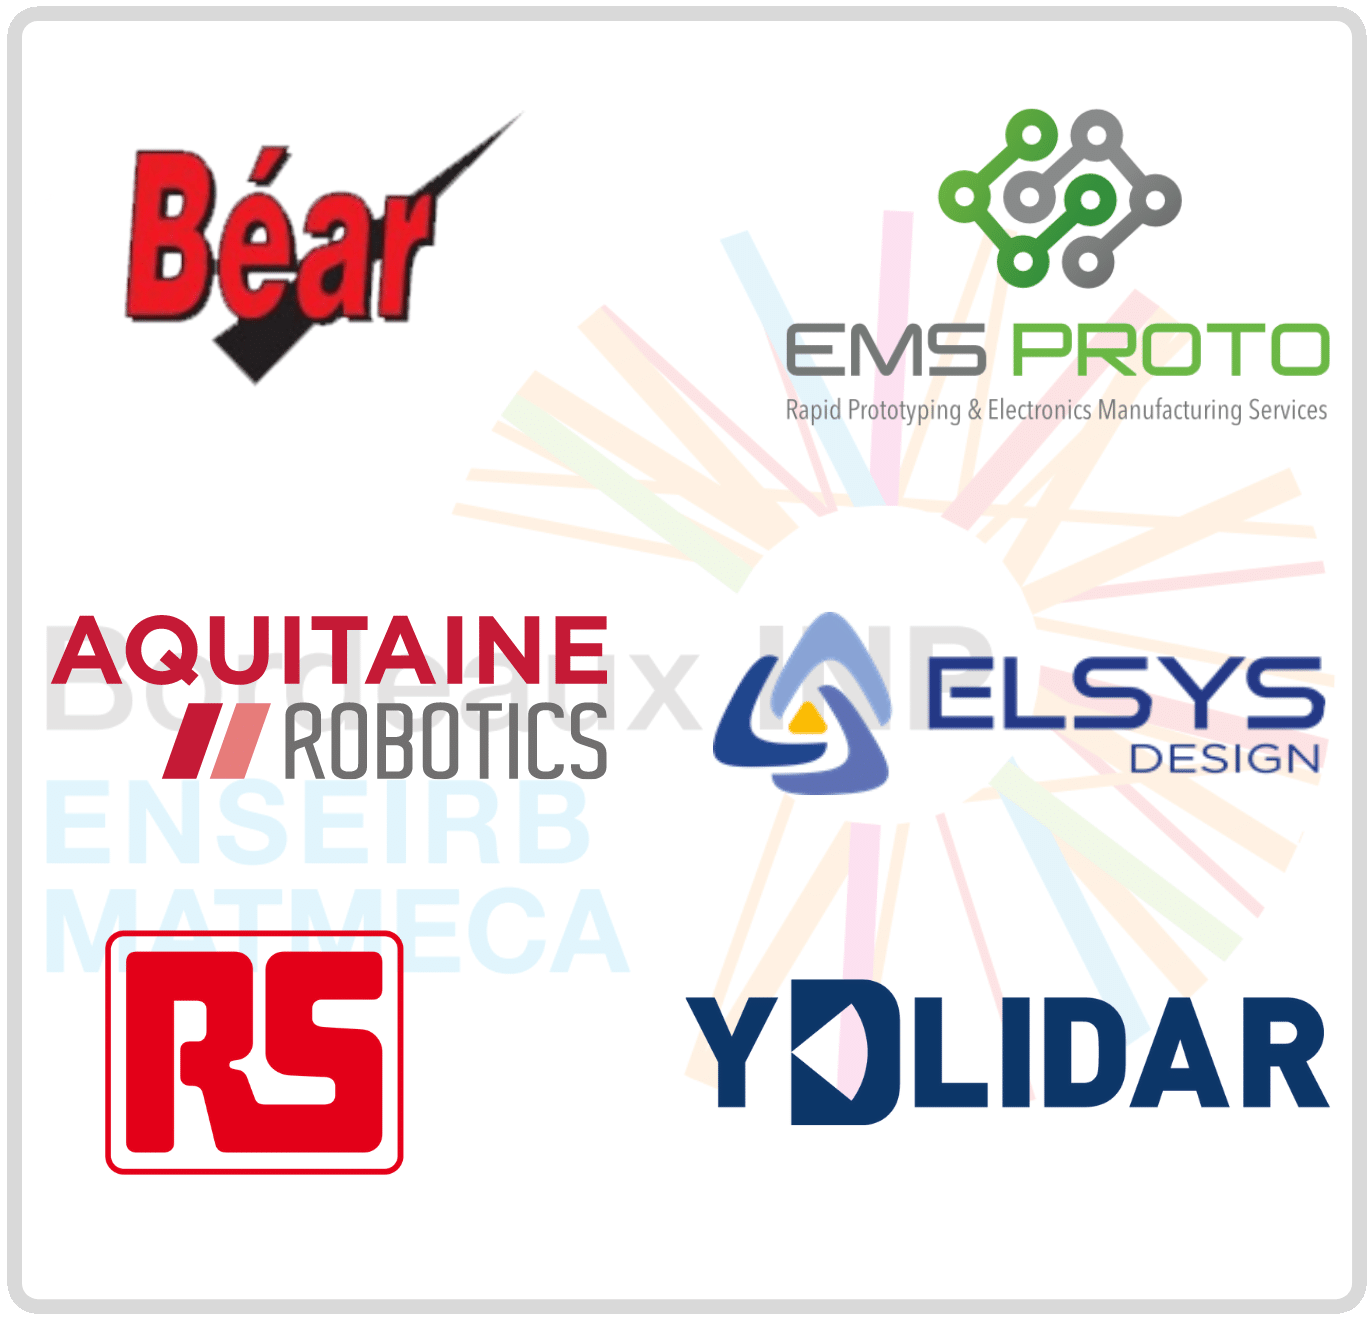
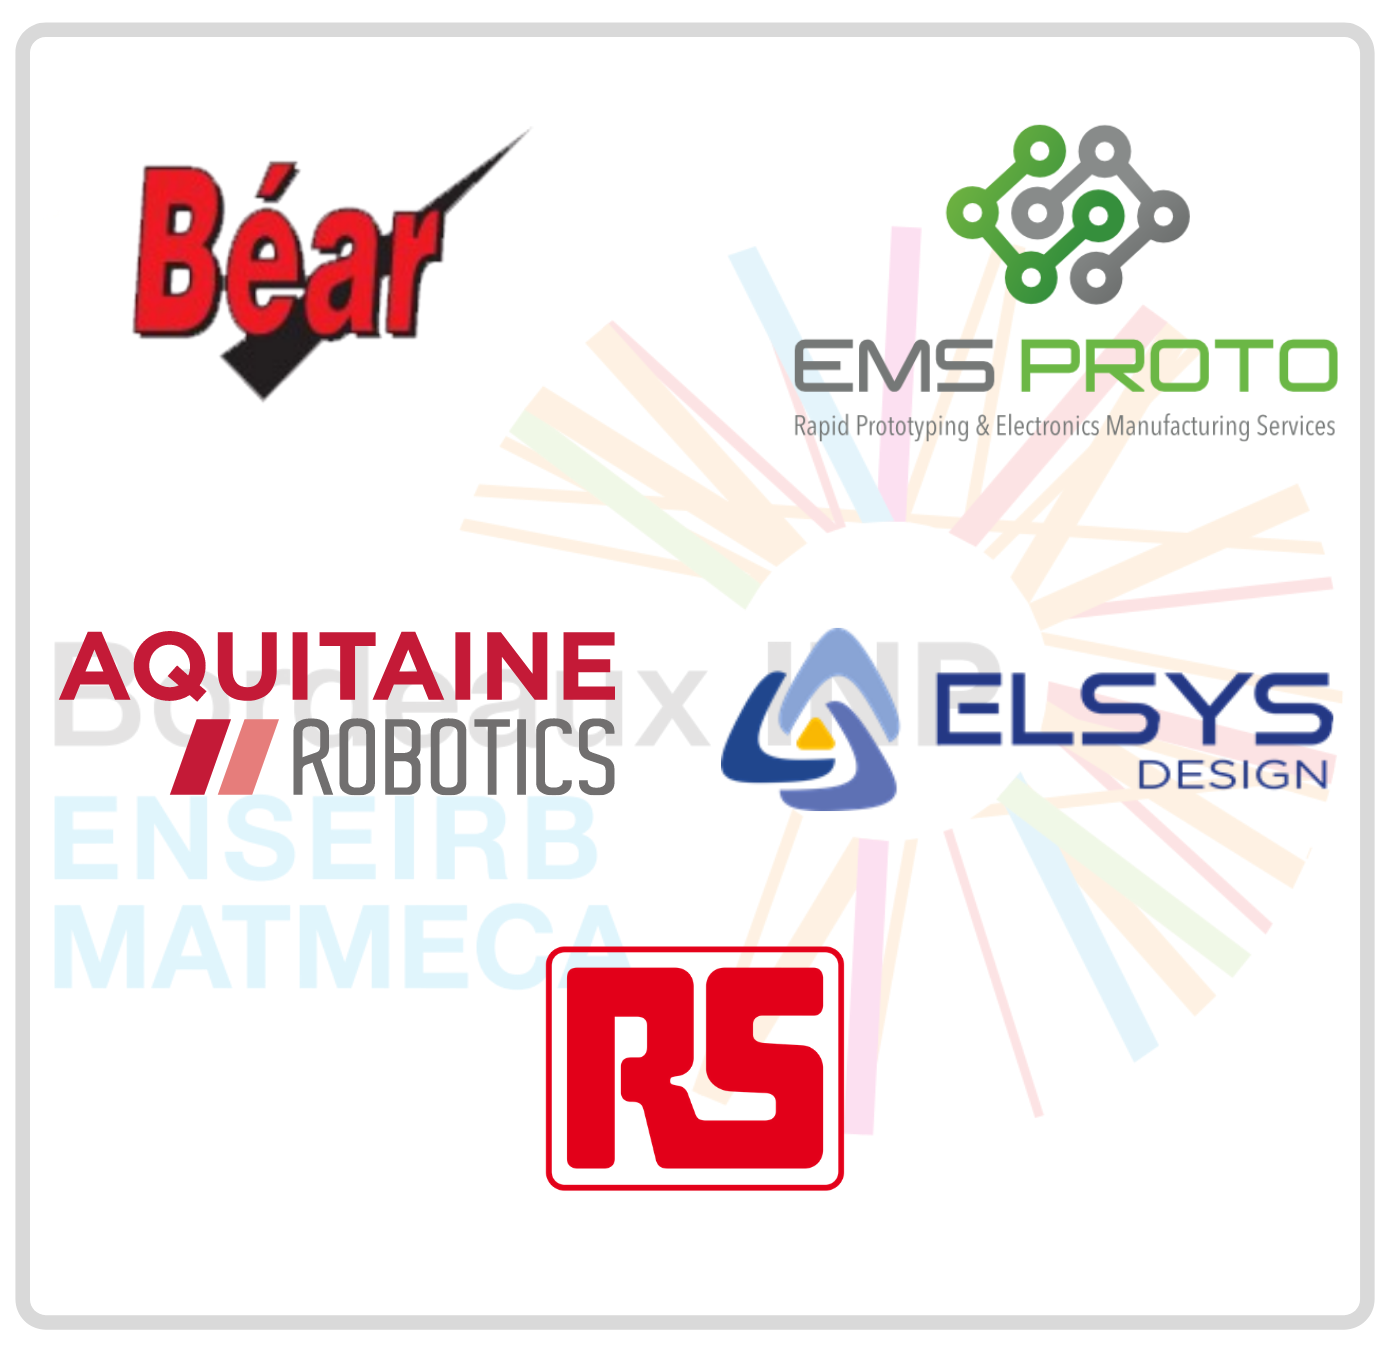
Update from https://github.com/eirbot/SiteEirbot/commit/9f276fe4433ca75caa8911c973769a5f2bbb16e9

Changed region(s): [[0.0, 0.0, 1.0, 1.0], [0.092, 0.0926, 0.3679, 0.3087], [0.5212, 0.4014, 0.5518, 0.4322]]

diff --git a/about/index.html b/about/index.html
@@ -268,14 +268,6 @@ La Coupe de France de robotique !</p>
             
             <div>
               <div class="user">
-                <img src="/images/ydlidar_crop.webp" alt="client">
-              </div>
-              <p>"Shenzhen EAI Technology Co., Ltd(EAI) , established in 2015, is  a leading lidar sensor manufacture and intelligent mobile system solution provider. Our customers and partners covers home and abroad. Through continuous innovation, EAI is committed to providing lidar sensor with best performance and user experience as well as intelligent mobile solutions for autonomous mapping, real time localization,planning and navigation, obstacle avoidance.<br>
-<a href="https://www.ydlidar.com/">Le site de YDlidar</a>"</p>
-            </div>
-            
-            <div>
-              <div class="user">
                 <img src="/images/bear_crop.webp" alt="client">
               </div>
               <p>"Bear est une entreprise produisant du FR4 pour la conception de cartes électroniques"</p>
@@ -329,7 +321,7 @@ Chaque année EIRBOT tient un stand à l&rsquo;ENSEIRB-MATMECA pour faire décou
             </div>
             
             <div id="ai4industry" class="tab-pane fade ">
-              <p>Workshop IA pour l&rsquo;industrie ENSEIRB-MATMECA 20-24 janvier 2020 Intelligence artificielle, Industrie du futur, Internet of Things…<br>
+              <p>Workshop IA pour l&rsquo;industrie organisé par le cluster Aquitaine Robotics en partenariat avec entre autre l&rsquo;ENSEIRB-MATMECA. Lors de l&rsquo;édition 2021 Eirbot a aidé l&rsquo;organisation en s&rsquo;occupant de la mise en place technique de la plateforme Microsoft Teams utilisée pour réaliser cette version virtuelle !
 <img src="/images/ai4industry.jpg" alt="ai"></p>
             </div>
             
